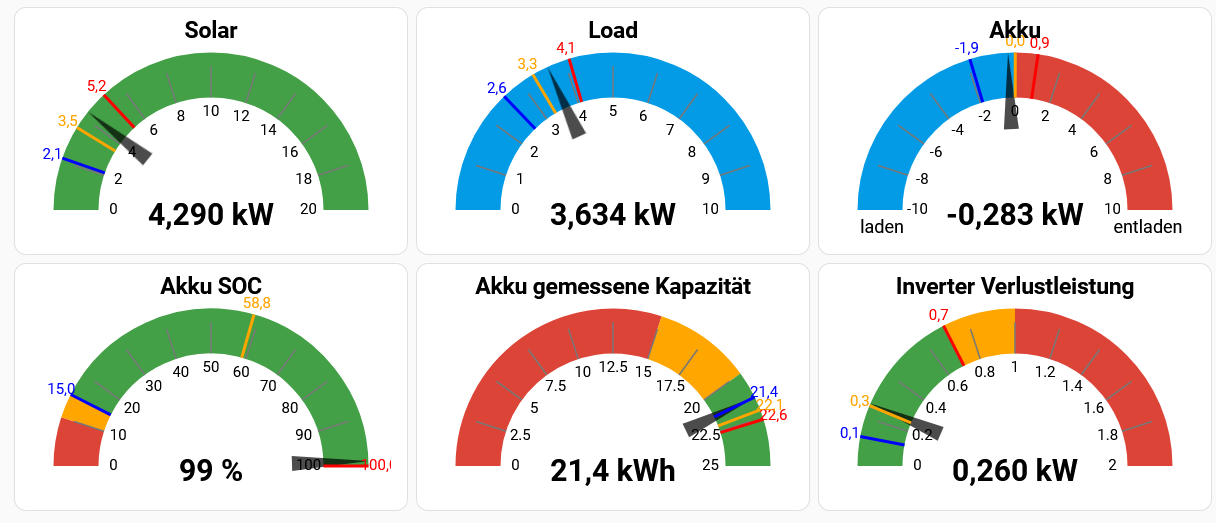
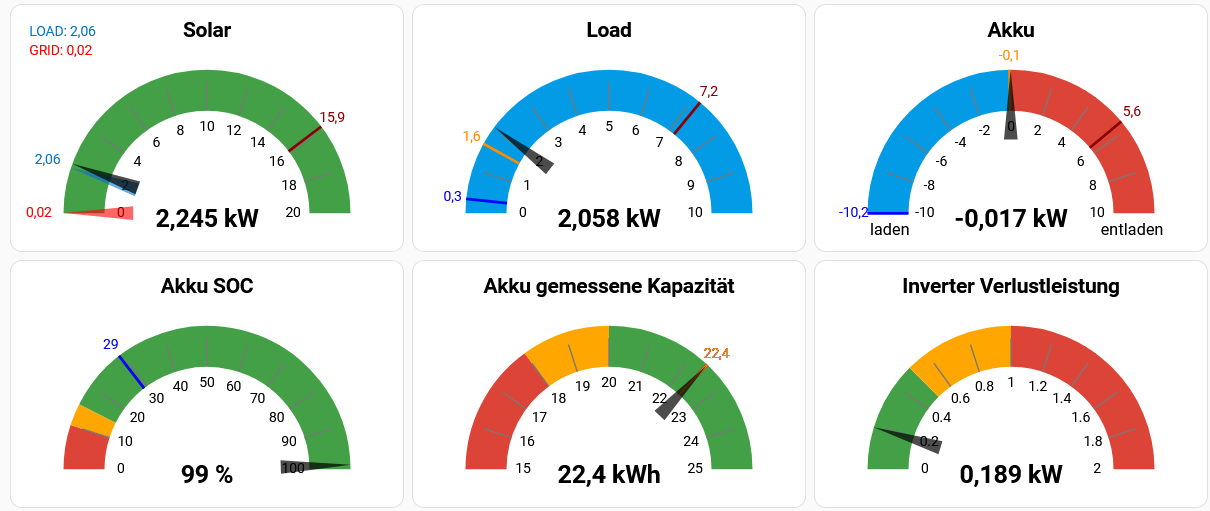
Cleanup: removed HACS files and metadata

diff --git a/README.md b/README.md
@@ -18,8 +18,10 @@ Displays a value from a sensor with custom styling, colored arcs, dynamic thresh
 * Tick marks and labels
 * Customizable needle color, opacity, and thickness
 * Min/Max/Avg markers with values (requires statistics sensors)
+* Multiple needles (e.g., for comparing values)
 * Configurable formatting (decimals, separator, font sizes)
 * Optional tap action (`more-info` by default)
+* Optional hiding of needle for special values (e.g., battery full, overcharge)
 
 ---
 
@@ -28,11 +30,22 @@ Displays a value from a sensor with custom styling, colored arcs, dynamic thresh
 1. Copy `custom-gauge-card.js` into your `www/` directory inside Home Assistant config
 2. Add to `configuration.yaml` or use the UI:
 
+### yaml:
 ```yaml
 resources:
   - url: /local/custom-gauge-card.js
     type: module
 ```
+
+### UI:
+
+Add the card as a resource in the Home Assistant UI:
+
+   - Go to **Settings** → **Dashboards**.
+   - Click the **⋮ (three dots)** in the top right corner → **Resources**.
+   - Click **Add Resource**.
+   - Enter the URL: `/local/custom-gauge-card.js`
+   - Select **JavaScript Module** as the type.
 
 3. Restart Home Assistant or reload resources
 
@@ -90,7 +103,21 @@ tap_action:
   action: more-info
 ```
 
----
+### Multiple Needles
+
+```yaml
+needles:
+  - entity: sensor.load_power_today
+    color: "#0077cc"
+    opacity: 0.6
+    show_value: true
+    decimal: 2
+  - entity: sensor.load_power_yesterday
+    color: green
+    opacity: 0.4
+    show_value: true
+    decimal: 1
+```
 
 ## Example `sensor.yaml` entries for statistics:
 
@@ -151,6 +178,12 @@ Make sure the base entity has `state_class: measurement` set in its attributes.
 | `tick_font_size`    | Font size for tick labels                       |
 | `rltext_font_size`  | Font size for left/right labels                 |
 | `tap_action`        | Tap interaction (`more-info`, `navigate`, etc.) |
+| `needles`           | Array of additional needles                     |
+| → `entity`          | Entity for the additional needle                |
+| → `color`           | Color of this needle                            |
+| → `opacity`         | Opacity (0.0–1.0)                               |
+| → `show_value`      | Show value next to needle (true/false)          |
+| → `decimal`         | Number of decimal places for value label        |
 
 ---
 
@@ -183,15 +216,13 @@ Developed by [HeWeDe](https://github.com/HeWeDe) with support from ChatGPT 🤖
 * `apexcharts-card`
 * `button-card`
 
-## 📁 Beispiele
+## 📁 Examples
 
-Im Ordner [`example/`](./example) findest du praktische Konfigurationsbeispiele aus einem produktiven Home Assistant-Setup:
+The [`example/`](./example) folder contains real-world YAML snippets:
 
-| Datei              | Inhalt                                                                 |
-|-------------------|------------------------------------------------------------------------|
-| `configuration.yaml` | Basis-Setup mit Includes für Sensoren, Templates, Automationen       |
-| `sensor.yaml`         | Statistiksensoren für Verbrauch, Akku und mehr                       |
-| `template.yaml`       | Beispielhafte Berechnung der Inverter-Verlustleistung                |
-| `automations.yaml`    | Automatisierung zur Berechnung der tatsächlichen Akkukapazität       |
-
-Alle Beispiele sind sofort nutzbar oder leicht anpassbar.
+| File                | Description                                                   |
+|---------------------|---------------------------------------------------------------|
+| `configuration.yaml` | Base configuration with includes                              |
+| `sensor.yaml`         | Statistics sensors for load, solar, battery, etc.            |
+| `template.yaml`       | Example template sensor for inverter loss power              |
+| `automations.yaml`    | Daily automation for battery capacity tracking               |
